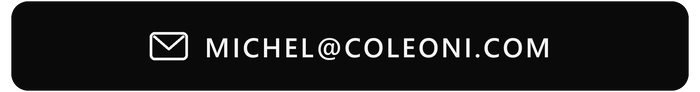
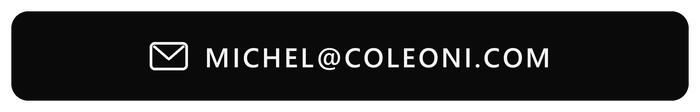
Alinha o perfil ao coleoni.com e poe o Discord nos contatos
O About me passa a dizer o mesmo que o coleoni.com, a linha do Skills fala das
16 skills e dos quatro agentes, e os contatos viram uma grade de dois por linha
com o Discord, gerado pelo mesmo scripts/buttons.py.

diff --git a/scripts/buttons.py b/scripts/buttons.py
@@ -5,47 +5,72 @@ from PIL import Image, ImageDraw, ImageFont
 ARC = "M29.109 341.155C58.1032 255.74 107.715 178.794 173.549 117.133C227.189 66.8938 290.25 28.0647 358.897 2.77636C384.809 -6.76916 412.332 9.27651 419.479 35.9499L468.274 218.057C475.38 244.579 459.453 271.452 434.825 283.591C389.848 305.757 350.72 341.03 323.767 387.715C251.279 513.266 294.297 673.809 419.848 746.296C532.893 811.563 674.303 783.189 754.266 685.244C768.399 667.933 792.973 661.238 812.236 672.566L979.52 766.903C1003.75 780.564 1012.35 811.527 996.284 834.232C954.134 893.815 900.411 944.532 838.145 983.251C761.546 1030.88 674.382 1058.89 584.373 1064.79C494.365 1070.69 404.291 1054.3 322.13 1017.07C239.969 979.846 168.257 922.931 113.346 851.369C58.4349 779.808 22.0195 695.808 7.32609 606.812C-7.36722 517.815 0.114864 426.569 29.109 341.155Z"
 SQ  = "M690.474 216.067C690.474 188.453 712.86 166.067 740.474 166.067L920.474 166.067C948.089 166.067 970.474 188.453 970.474 216.067V396.067C970.474 423.682 948.089 446.067 920.474 446.067H740.474C712.86 446.067 690.474 423.682 690.474 396.067V216.067Z"
 
+# Discord do simple-icons (viewBox 24x24): o contorno e os dois olhos
+DISCORD = open(__file__.replace('buttons.py', 'discord.path')).read().strip()
+
+NUM = re.compile(r'-?(?:\d+\.?\d*|\.\d+)(?:[eE][-+]?\d+)?')
+
 def parse_path(d):
-    toks = re.findall(r'[MCLVHZmclvhz]|-?\d*\.?\d+(?:[eE][-+]?\d+)?', d)
-    subs, cur, pt, start, i, cmd = [], [], (0.0, 0.0), (0.0, 0.0), 0, None
+    # M L H V C Z, absolutos e relativos. Arco vira reta ate o ponto final: nos
+    # icones daqui os arcos sao cantos minusculos, e a diferenca nao chega a um pixel.
+    subs, cur, i, n, cmd = [], [], 0, len(d), None
+    x = y = sx = sy = 0.0
+    def skip():
+        nonlocal i
+        while i < n and d[i] in ' ,\t\r\n': i += 1
     def num():
         nonlocal i
-        v = float(toks[i]); i += 1; return v
-    while i < len(toks):
-        t = toks[i]
-        if t.isalpha():
-            cmd = t; i += 1
-            if cmd in 'Zz':
-                if cur: subs.append(cur); cur = []
-                pt = start; continue
-        if cmd == 'M':
-            x, y = num(), num(); pt = start = (x, y); cur = [pt]
-        elif cmd == 'L':
-            x, y = num(), num(); pt = (x, y); cur.append(pt)
-        elif cmd == 'H':
-            x = num(); pt = (x, pt[1]); cur.append(pt)
-        elif cmd == 'V':
-            y = num(); pt = (pt[0], y); cur.append(pt)
-        elif cmd == 'C':
-            x1,y1,x2,y2,x,y = (num() for _ in range(6)); p0 = pt
+        skip(); m = NUM.match(d, i); i = m.end(); return float(m.group())
+    def flag():
+        nonlocal i
+        skip(); i += 1; return d[i-1] == '1'
+    def add(p):
+        if not cur: cur.append((sx, sy))
+        cur.append(p)
+    while True:
+        skip()
+        if i >= n: break
+        if d[i].isalpha():
+            cmd = d[i]; i += 1
+        C = cmd.upper()
+        ox, oy = (x, y) if cmd.islower() else (0.0, 0.0)
+        if C == 'Z':
+            if cur: subs.append(cur); cur = []
+            x, y = sx, sy
+        elif C == 'M':
+            if cur: subs.append(cur)
+            x, y = ox + num(), oy + num(); sx, sy = x, y; cur = [(x, y)]
+            cmd = 'l' if cmd == 'm' else 'L'
+        elif C == 'L':
+            x, y = ox + num(), oy + num(); add((x, y))
+        elif C == 'H':
+            x = ox + num(); add((x, y))
+        elif C == 'V':
+            y = oy + num(); add((x, y))
+        elif C == 'A':
+            num(); num(); num(); flag(); flag()
+            x, y = ox + num(), oy + num(); add((x, y))
+        elif C == 'C':
+            x1, y1, x2, y2 = ox + num(), oy + num(), ox + num(), oy + num()
+            ex, ey = ox + num(), oy + num(); p0 = (x, y)
             for s in range(1, 49):
                 u = s/48; m = 1-u
-                cur.append((m*m*m*p0[0]+3*m*m*u*x1+3*m*u*u*x2+u*u*u*x,
-                            m*m*m*p0[1]+3*m*m*u*y1+3*m*u*u*y2+u*u*u*y))
-            pt = (x, y)
-        if cmd in 'Zz': pass
+                add((m*m*m*p0[0]+3*m*m*u*x1+3*m*u*u*x2+u*u*u*ex,
+                     m*m*m*p0[1]+3*m*m*u*y1+3*m*u*u*y2+u*u*u*ey))
+            x, y = ex, ey
     if cur: subs.append(cur)
     return subs
 
 SS = 3
-W, H, R = 700, 92, 18
+W, H, R = 700, 112, 18
+PAD, VPAD = 10, 10  # respiro dentro do PNG: os botoes encostam (dois por linha, em 50%) e o vao aparece
 DARK  = (10, 10, 10, 255)
 LIGHT = (245, 245, 245, 255)
 LIME  = (174, 250, 14, 255)
 HAIRLINE = (255, 255, 255, 46)
 
 # tema corrente do botao sendo desenhado (as funcoes de icone leem daqui)
-FG = LIGHT
+FG, BG = LIGHT, DARK
 FONT = ImageFont.truetype('C:/Windows/Fonts/seguisb.ttf', 27*SS)
 LS = 2.4*SS
 
@@ -71,16 +96,25 @@ def icon_instagram(d, cx, cy, s):
     dr = s*0.055; dx, dy = cx+s*0.265, cy-s*0.265
     d.ellipse([dx-dr, dy-dr, dx+dr, dy+dr], fill=FG)
 
+def icon_discord(d, cx, cy, s):
+    # o contorno no FG; os olhos sao furos, pintados com o fundo
+    sc = s/24.0
+    subs = parse_path(DISCORD)
+    ys = [y for x, y in subs[0]]
+    oy = cy - (min(ys) + max(ys))/2*sc
+    for k, sub in enumerate(subs):
+        d.polygon([(cx - 12*sc + x*sc, oy + y*sc) for x, y in sub], fill=FG if k == 0 else BG)
+
 def text_width(d, txt):
     return sum(d.textlength(c, font=FONT) for c in txt) + LS*(len(txt)-1)
 
 def build(name, icon_fn, icon_size, label, fg=LIGHT, bg=DARK, border=HAIRLINE):
-    global FG
-    FG = fg
+    global FG, BG
+    FG, BG = fg, bg
     im = Image.new('RGBA', (W*SS, H*SS), (0, 0, 0, 0))
     d = ImageDraw.Draw(im)
-    PAD = 10*SS  # respiro lateral dentro do proprio PNG: os 3 encostam em 33.33% e o gap fica visual
-    d.rounded_rectangle([PAD, 0, W*SS-1-PAD, H*SS-1], radius=R*SS, fill=bg,
+    px, py = PAD*SS, VPAD*SS
+    d.rounded_rectangle([px, py, W*SS-1-px, H*SS-1-py], radius=R*SS, fill=bg,
                         outline=border, width=max(1, int(1.5*SS)))
     isz = icon_size*SS
     gap = 17*SS
@@ -101,3 +135,4 @@ def build(name, icon_fn, icon_size, label, fg=LIGHT, bg=DARK, border=HAIRLINE):
 build('website',   logo_coleoni,    40, 'COLEONI.COM', fg=DARK, bg=LIME, border=LIME)
 build('email',     icon_mail,       38, 'MICHEL@COLEONI.COM')
 build('instagram', icon_instagram,  38, '@COLEONI.DEV')
+build('discord',   icon_discord,    40, 'DISCORD')

diff --git a/README.md b/README.md
@@ -2,9 +2,9 @@
 
 ## About me
 
-I'm an AI engineer and full-stack developer, more architect than code typist. Most of my work happens before the first commit: deciding what actually needs to exist and how the pieces fit together. The typing part I increasingly hand to agents.
+I design and build sites, systems and products end to end: the interface, the code, the server and what happens after launch. One person, the whole way.
 
-Right now most of my time goes to LLM agents, multi-agent orchestration and automation that has to survive real users on the other side.
+Some of it is for clients, some is mine, and some you can use right now.
 
 ## Projects
 
@@ -19,12 +19,12 @@ Right now most of my time goes to LLM agents, multi-agent orchestration and auto
 <tbody>
 <tr>
 <td nowrap><img src="assets/projects/skills.png" width="22" align="center">&nbsp;<b><a href="https://skills.coleoni.com">Skills</a></b></td>
-<td>Free skills for Claude Code, Codex and other agents, starting with portfolio thumbnails</td>
-<td><kbd>Node.js</kbd> <kbd>Playwright</kbd> <kbd>Claude Code</kbd> <kbd>Codex</kbd></td>
+<td>Free skills for Claude Code, Codex, Cursor and Gemini CLI: scopes, portfolio thumbnails, favicons, launch checks and more</td>
+<td><kbd>Node.js</kbd> <kbd>Playwright</kbd> <kbd>SKILL.md</kbd></td>
 </tr>
 <tr>
 <td nowrap><img src="assets/projects/blob.png" width="22" align="center">&nbsp;<b><a href="https://blob.coleoni.com">Blob Avatar</a></b></td>
-<td>Free animated avatar editor: pick a shape, a face and a few moves, export PNG, GIF or SVG</td>
+<td>Free animated avatar editor: pick a shape, a face and a few animations, then export PNG, GIF or SVG, or embed it with one tag</td>
 <td><kbd>React</kbd> <kbd>TypeScript</kbd> <kbd>Vite</kbd> <kbd>Tailwind</kbd></td>
 </tr>
 <tr>
@@ -44,4 +44,4 @@ Right now most of my time goes to LLM agents, multi-agent orchestration and auto
 
 ## Let's talk
 
-<a href="https://coleoni.com"><img alt="coleoni.com" src="assets/buttons/website.png" width="33.33%"></a><a href="mailto:michel@coleoni.com"><img alt="michel@coleoni.com" src="assets/buttons/email.png" width="33.33%"></a><a href="https://instagram.com/coleoni.dev"><img alt="@coleoni.dev" src="assets/buttons/instagram.png" width="33.33%"></a>
+<a href="https://coleoni.com"><img alt="coleoni.com" src="assets/buttons/website.png" width="50%"></a><a href="mailto:michel@coleoni.com"><img alt="michel@coleoni.com" src="assets/buttons/email.png" width="50%"></a><a href="https://instagram.com/coleoni.dev"><img alt="@coleoni.dev" src="assets/buttons/instagram.png" width="50%"></a><a href="https://discord.com/users/366386408299954177"><img alt="Discord" src="assets/buttons/discord.png" width="50%"></a>
